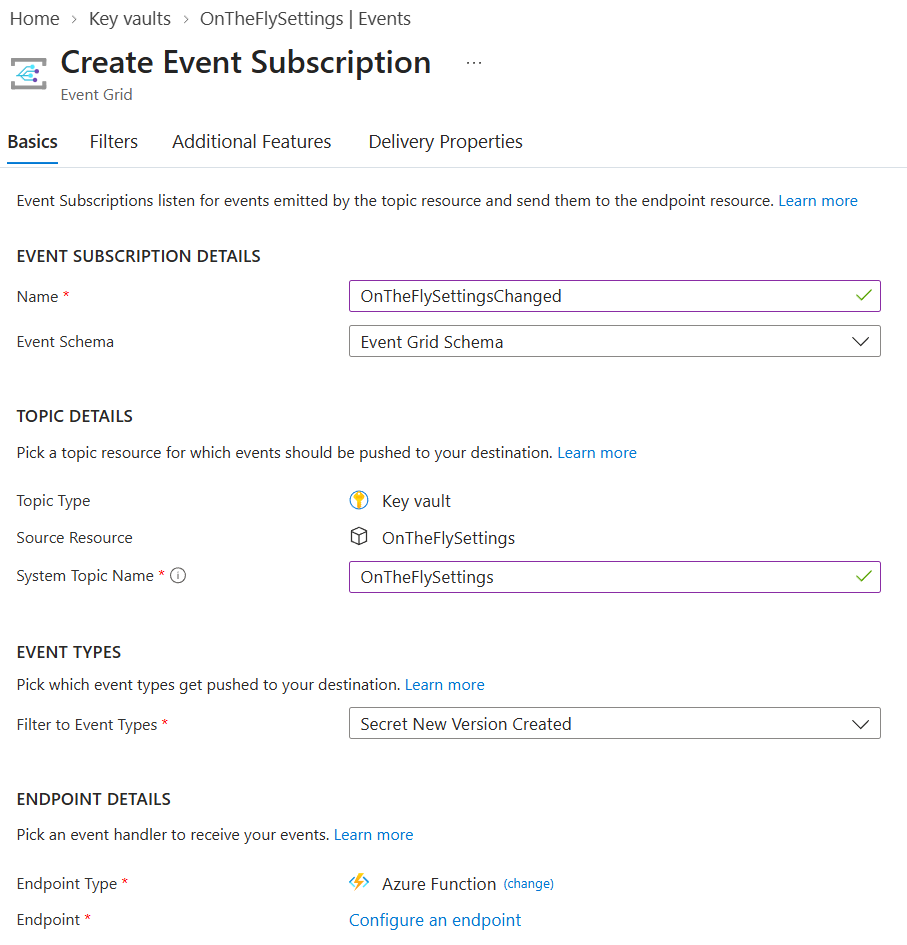
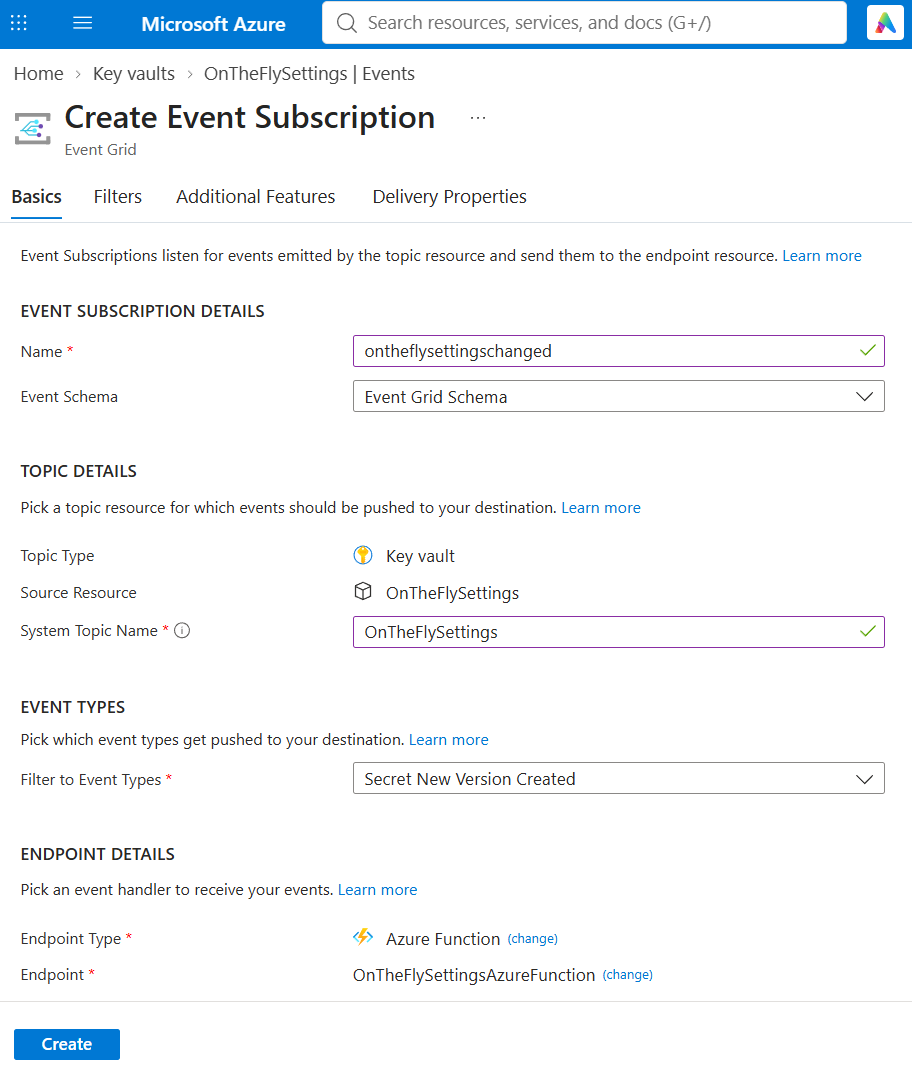
updated readme.

diff --git a/OnTheFlySettings.AzureFunctions/README.md b/OnTheFlySettings.AzureFunctions/README.md
@@ -8,10 +8,11 @@
 |*OnTheFlySettings.Client*|[![Nuget Version](https://img.shields.io/nuget/v/OnTheFlySettings.Client)](https://www.nuget.org/packages/OnTheFlySettings.Client)|[![Downloads count](https://img.shields.io/nuget/dt/OnTheFlySettings.Client)](https://www.nuget.org/packages/OnTheFlySettings.Client)|
 |*OnTheFlySettings.AzureKeyVault.Client*|[![Nuget Version](https://img.shields.io/nuget/v/OnTheFlySettings.AzureKeyVault.Client)](https://www.nuget.org/packages/OnTheFlySettings.AzureKeyVault.Client)|[![Downloads count](https://img.shields.io/nuget/dt/OnTheFlySettings.AzureKeyVault.Client)](https://www.nuget.org/packages/OnTheFlySettings.AzureKeyVault.Client)|
 |*OnTheFlySettings.AWSSecretManager.Client*|[![Nuget Version](https://img.shields.io/nuget/v/OnTheFlySettings.AWSSecretManager.Client)](https://www.nuget.org/packages/OnTheFlySettings.AWSSecretManager.Client)|[![Downloads count](https://img.shields.io/nuget/dt/OnTheFlySettings.AWSSecretManager.Client)](https://www.nuget.org/packages/OnTheFlySettings.AWSSecretManager.Client)|
+|*OnTheFlySettings.AzureFunctions*|[![Nuget Version](https://img.shields.io/nuget/v/OnTheFlySettings.AzureFunctions)](https://www.nuget.org/packages/OnTheFlySettings.AzureFunctions)|[![Downloads count](https://img.shields.io/nuget/dt/OnTheFlySettings.AzureFunctions)](https://www.nuget.org/packages/OnTheFlySettings.AzureFunctions)|
 
 ![On The Fly Settings](https://raw.githubusercontent.com/VeritasSoftware/OnTheFlySettings/master/Images/OnTheFlySettings.jpg)
 
-The .NET Client library allows you to fully automate the update of the target API/App setting when the underlying secret in Azure Key Vault is updated.
+The .NET Azure Functions Client library allows you to fully automate the update of the target API/App setting when the underlying secret in Azure Key Vault is updated.
 
 ## Step 1: Add the library to your Azure Functions App project.
 
@@ -47,9 +48,15 @@ builder.Build().Run();
 
 Deploy the Azure Function to Azure.
 
-## Step 2: Create an `Event Subscription` in your Azure Key Vault 
+## Step 2: Create an Event Grid Topic
 
-Create an `Event Subscription` in your Azure Key Vault and point it to the Azure Function endpoint.
+Create an `Event Grid Topic` in your Azure subscription and resource group.
+
+![Azure Event Grid Topic](https://raw.githubusercontent.com/VeritasSoftware/OnTheFlySettings/master/Images/AzureKeyVault_EventGridTopic.png)
+
+## Step 3: Create an `Event Subscription` in your Azure Key Vault 
+
+Create an `Event Subscription` in your Azure Key Vault and point it to the deployed Azure Function endpoint.
 
 This subscription then calls the OnTheFlySettings Azure Function endpoint when the secret is updated.
 
@@ -57,7 +64,7 @@ This subscription then calls the OnTheFlySettings Azure Function endpoint when t
 
 That's it! Now your Azure Function is ready to receive the event from Azure Key Vault when the secret is updated.
 
-## Step 3: Update underlying secret in Azure Key Vault
+## Usage: Update underlying secret in Azure Key Vault
 
 Let us say you update the secret `HealthCheckIntervalCronExpression` (for eg.) in Azure Key Vault and create a new version.
 
